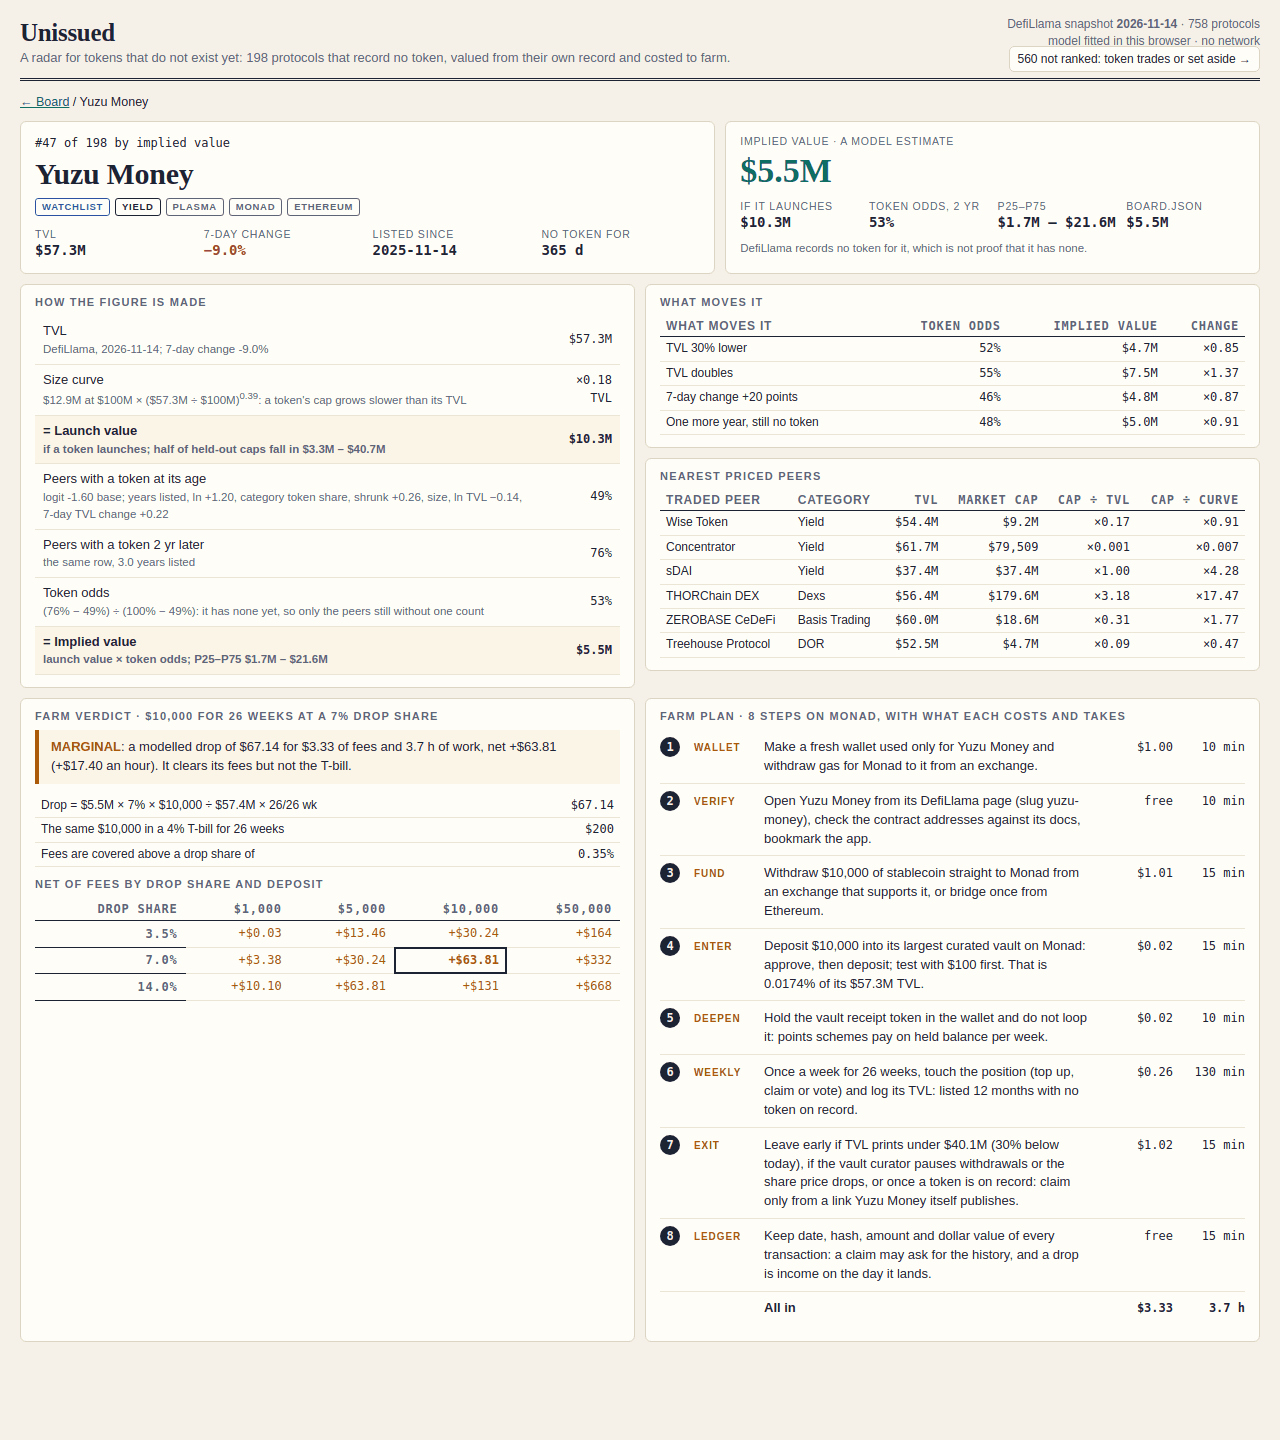
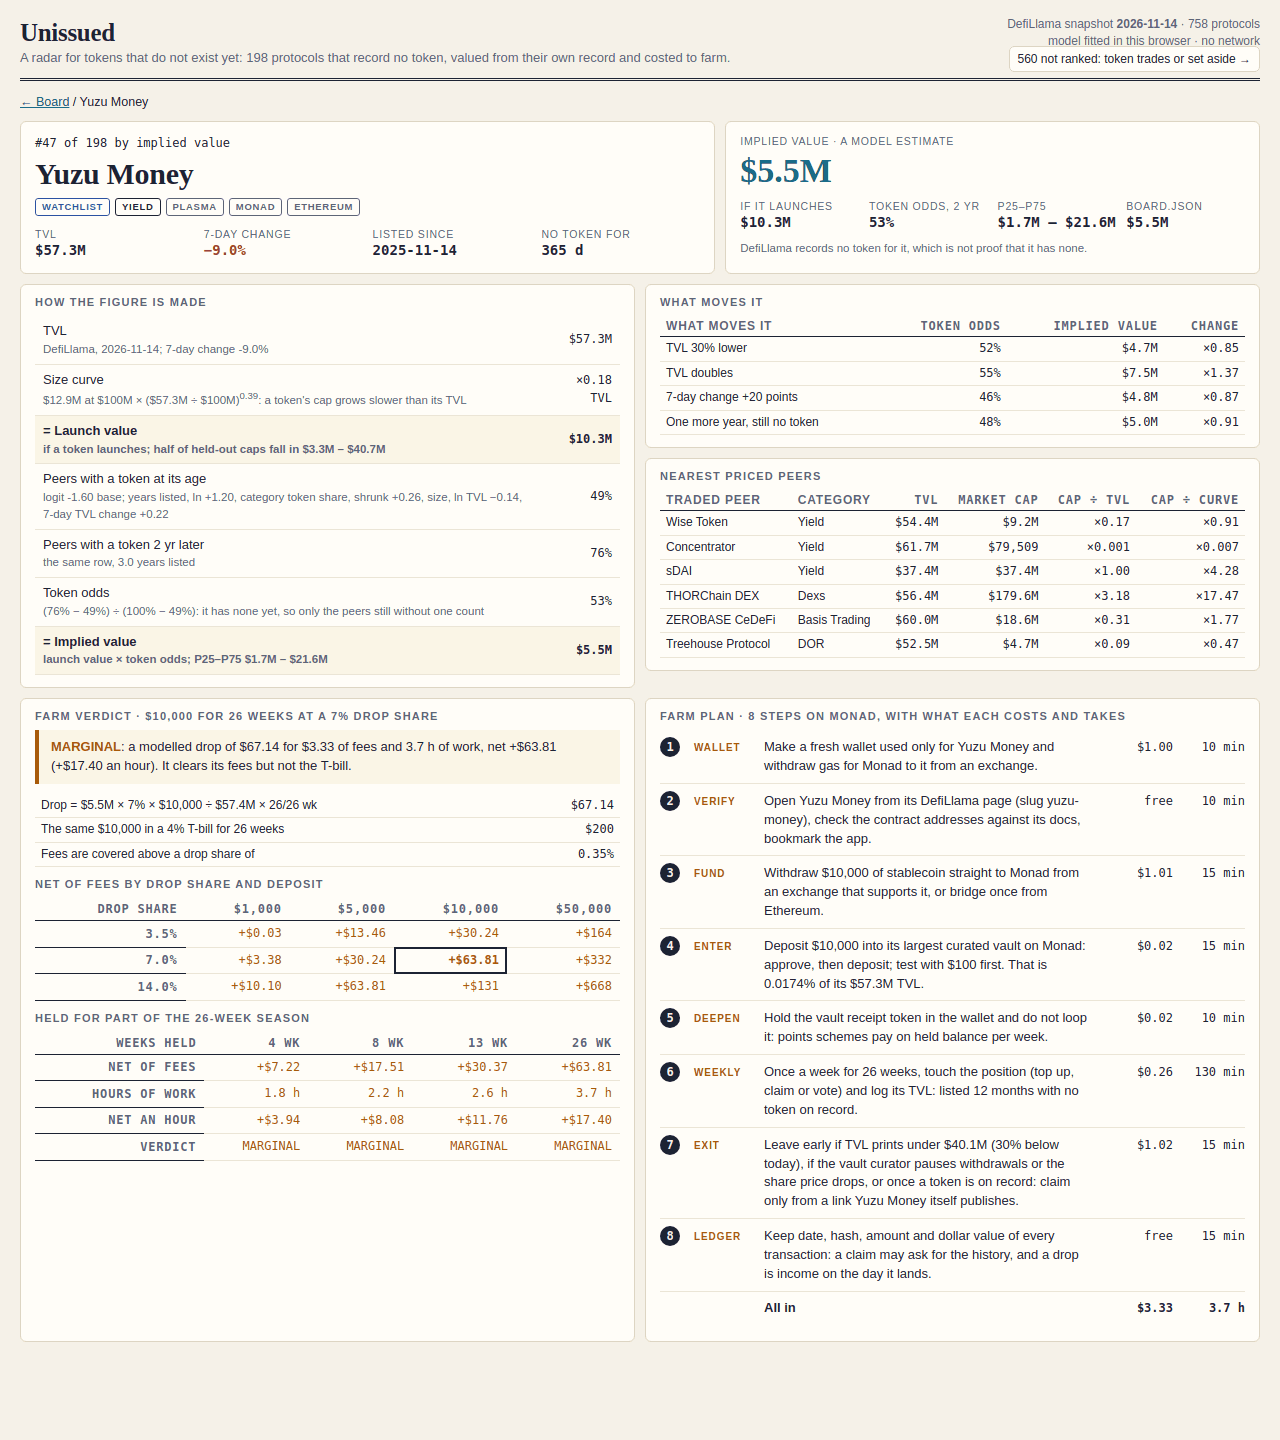
Ledger of the protocols not ranked, net by weeks held, tighter board; screenshots

diff --git a/dashboard/ui.js b/dashboard/ui.js
@@ -190,6 +190,12 @@ function netGrid(r) {
     }).join('') + '</tr>';
   }).join('') + '</table>';
 }
+function netByWeeks(r) {   // the same deposit held for part of the season: the drop and the weekly chores both scale
+  const weeks = [4, 8, 13, 26], plans = weeks.map(function (w) { return R.farmPlan(r.p, r.iv, Object.assign({}, S.sc, { weeks: w })); });
+  const line = function (label, f) { return '<tr><th>' + label + '</th>' + plans.map(function (p) { return '<td class="' + p.verdict + '">' + f(p) + '</td>'; }).join('') + '</tr>'; };
+  return '<table class="grid"><tr><th>Weeks held</th>' + weeks.map(function (w) { return '<th>' + w + ' wk</th>'; }).join('') + '</tr>' + line('Net of fees', function (p) { return signed(p.net); }) +
+    line('Hours of work', function (p) { return p.hours.toFixed(1) + ' h'; }) + line('Net an hour', function (p) { return signed(p.perHour); }) + line('Verdict', function (p) { return p.verdict; }) + '</table>';
+}
 function renderDetail(r) {
   const p = r.p, iv = r.iv, f = r.farm, fact = function (a, b) { return '<div><small>' + a + '</small><b>' + b + '</b></div>'; };
   const why = f.verdict === 'FARM' ? 'beats both the T-bill and $' + S.sc.wage + ' an hour' : f.verdict === 'MARGINAL' ? 'clears its fees but not ' + (f.net < f.tbill ? 'the T-bill' : '$' + S.sc.wage + ' an hour') : 'the fees exceed the modelled drop';
@@ -201,7 +207,7 @@ function renderDetail(r) {
     '<div class="two"><div class="card"><h2>How the figure is made</h2>' + equationOf(r) + '</div><div><div class="card"><h2>What moves it</h2>' + sensitivity(r) + '</div><div class="card" style="margin-top:10px"><h2>Nearest priced peers</h2>' + nearestPeers(r) + '</div></div></div>' +
     '<div class="two"><div class="card"><h2>Farm verdict · ' + usd(S.sc.deposit) + ' for ' + S.sc.weeks + ' weeks at a ' + pct(S.sc.share) + ' drop share</h2><p class="callout ' + f.verdict + '"><span><b class="' + f.verdict + '">' + f.verdict + '</b>: a modelled drop of ' + usd(f.drop) + ' for ' + usd(f.gas) + ' of fees and ' + f.hours.toFixed(1) + ' h of work, net ' + signed(f.net) + ' (' + signed(f.perHour) + ' an hour). It ' + why + '.</span></p>' +
     '<table class="mini"><tr><td>Drop = ' + usd(iv.value) + ' × ' + pct(S.sc.share) + ' × ' + usd(S.sc.deposit) + ' ÷ ' + usd(p.tvl + S.sc.deposit) + ' × ' + S.sc.weeks + '/' + S.sc.season + ' wk</td><td class="n">' + usd(f.drop) + '</td></tr><tr><td>The same ' + usd(S.sc.deposit) + ' in a 4% T-bill for ' + S.sc.weeks + ' weeks</td><td class="n">' + usd(f.tbill) + '</td></tr><tr><td>Fees are covered above a drop share of</td><td class="n">' + pct(f.breakEven, 2) + '</td></tr></table>' +
-    '<h2 style="margin-top:12px">Net of fees by drop share and deposit</h2>' + netGrid(r) + '</div>' +
+    '<h2 style="margin-top:12px">Net of fees by drop share and deposit</h2>' + netGrid(r) + '<h2 style="margin-top:12px">Held for part of the ' + S.sc.season + '-week season</h2>' + netByWeeks(r) + '</div>' +
     '<div class="card"><h2>Farm plan · ' + f.steps.length + ' steps on ' + esc(f.chain) + ', with what each costs and takes</h2><ol class="steps">' + f.steps.map(function (s) { return '<li><span class="t">' + s.tag + '</span><span>' + esc(s.text) + '.</span><span class="c">' + (s.cost ? usd(s.cost) : 'free') + '</span><span class="c">' + s.min + ' min</span></li>'; }).join('') +
     '<li class="sum"><span></span><span>All in</span><span class="c">' + usd(f.gas) + '</span><span class="c">' + f.hours.toFixed(1) + ' h</span></li></ol></div></div>';
   window.scrollTo(0, 0);
